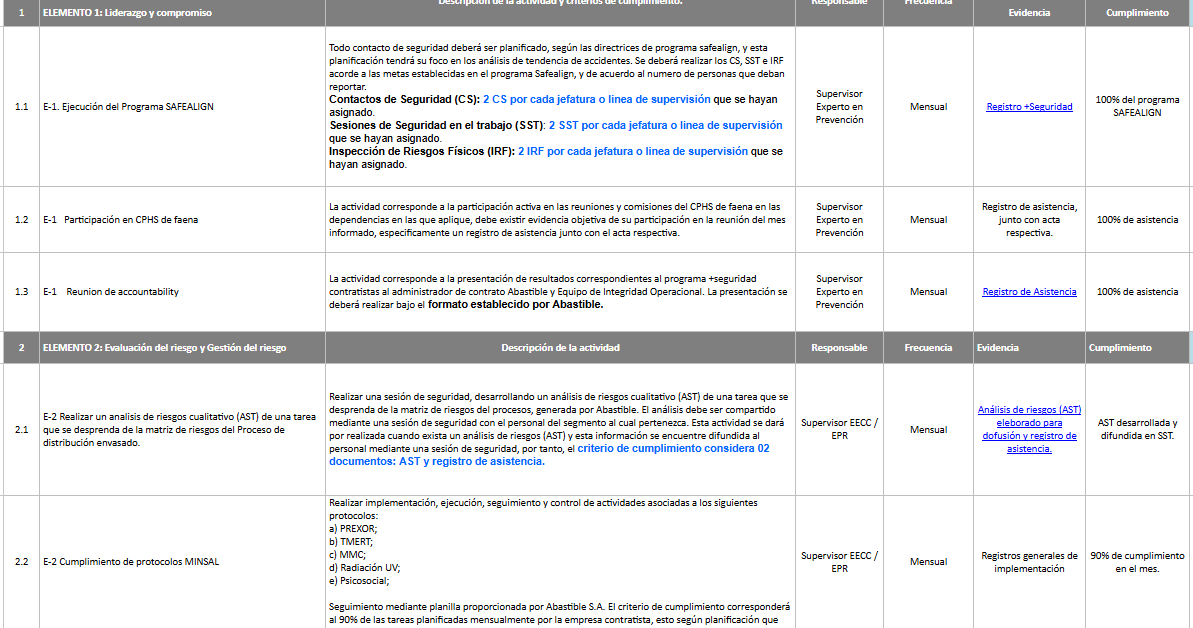
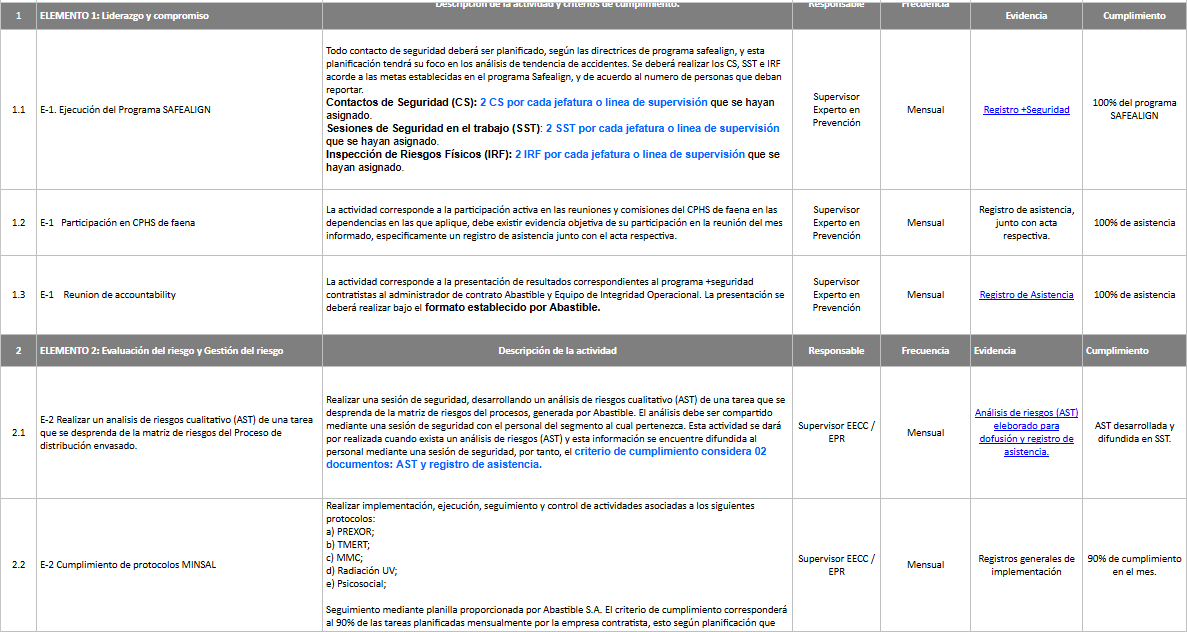
up seeders programa envasado

diff --git a/back/src/data/envasado.js b/back/src/data/envasado.js
@@ -1,0 +1,165 @@
+const envasadoProgramData = [
+    {
+        "numero": "1",
+        "nombre": "Liderazgo y compromiso",
+        "actividades": [
+            {
+                "codigo": "1.1",
+                "descripcion": "Todo contacto de seguridad deberá ser planificado, según las directrices de programa safealign, y esta planificación tendrá su foco en los análisis de tendencia de accidentes. Se deberá realizar los CS, SST e IRF acorde a las metas establecidas en el programa Safealign, y de acuerdo al número de personas que deban reportar.\\nContactos de Seguridad (CS): 2 CS por cada jefatura o línea de supervisión que se hayan asignado.\\nSesiones de Seguridad en el trabajo (SST): 2 SST por cada jefatura o línea de supervisión que se hayan asignado.\\nInspección de Riesgos Físicos (IRF): 2 IRF por cada jefatura o línea de supervisión que se hayan asignado.",
+                "frecuencia": "mensual",
+                "criterios": "Registro +Seguridad",
+                "requiere_evidencia": 1
+            },
+            {
+                "codigo": "1.2",
+                "descripcion": "La actividad corresponde a la participación activa en las reuniones y comisiones del CPHS de faena en las dependencias en las que aplique, debe existir evidencia objetiva de su participación en la reunión del mes informado, específicamente un registro de asistencia junto con el acta respectiva.",
+                "frecuencia": "mensual",
+                "criterios": "Registro de asistencia, junto con acta respectiva.",
+                "requiere_evidencia": 1
+            },
+            {
+                "codigo": "1.3",
+                "descripcion": "La actividad corresponde a la presentación de resultados correspondientes al programa +seguridad contratistas al administrador de contrato Abastible y Equipo de Integridad Operacional. La presentación se deberá realizar bajo el formato establecido por Abastible.",
+                "frecuencia": "mensual",
+                "criterios": "Registro de Asistencia",
+                "requiere_evidencia": 1
+            }
+        ]
+    },
+    {
+        "numero": "2",
+        "nombre": "Evaluación del riesgo y Gestión del riesgo",
+        "actividades": [
+            {
+                "codigo": "2.1",
+                "descripcion": "Realizar una sesión de seguridad, desarrollando un análisis de riesgos cualitativo (AST) de una tarea que se desprenda de la matriz de riesgos del proceso de distribución envasado, generada por Abastible. El análisis debe ser compartido mediante una sesión de seguridad con el personal del segmento al cual pertenezca. Esta actividad se dará por realizada cuando exista un análisis de riesgos (AST) y esta información se encuentre difundida al personal mediante una sesión de seguridad, por tanto, el criterio de cumplimiento considera 02 documentos: AST y registro de asistencia.",
+                "frecuencia": "mensual",
+                "criterios": "Análisis de riesgos (AST) elaborado para difusión y registro de asistencia.",
+                "requiere_evidencia": 1
+            },
+            {
+                "codigo": "2.2",
+                "descripcion": "Realizar implementación, ejecución, seguimiento y control de actividades asociadas a los siguientes protocolos:\\na) PREXOR;\\nb) TMERT;\\nc) MMC;\\nd) Radiación UV;\\ne) Psicosocial;\\nSeguimiento mediante planilla proporcionada por Abastible S.A. El criterio de cumplimiento corresponderá al 90% de las tareas planificadas mensualmente por la empresa contratista, esto según planificación que debe ser abordada por cada empresa.",
+                "frecuencia": "mensual",
+                "criterios": "Registros generales de implementación",
+                "requiere_evidencia": 1
+            }
+        ]
+    },
+    {
+        "numero": "3",
+        "nombre": "Competencias y capacitación del personal",
+        "actividades": [
+            {
+                "codigo": "3.1",
+                "descripcion": "Consiste en realizar la inducción de todo trabajador nuevo, reasignación de cargo, o que haya estado un periodo extenso sin realizar las labores para las cuales fue contratado (ej. Licencia médica), o que haya reingresado posterior a un accidente. Para dar cumplimiento a este ítem se requiere un registro individualizado de capacitación con datos mínimos tales como: nombre, rut, cargo que desarrollará, empresa por la cual realiza la inducción, fecha, hora inicio, hora de término. ODI firmada por trabajador.",
+                "frecuencia": "mensual",
+                "criterios": "Registro individualizado de capacitación",
+                "requiere_evidencia": 1
+            },
+            {
+                "codigo": "3.2",
+                "descripcion": "Ejecución de las capacitaciones de acuerdo a plan anual de capacitación que se haya asignado al segmento de distribución envasado, ya sea en plataforma ACHS, en AULA (plataforma disponibilizada por Abastible), o las proporcionadas en forma directa por la jefatura o línea de supervisión. Para dar cumplimiento a este ítem se debe mantener disponible el registro de asistencia, diploma de la plataforma a la cual se acceda.",
+                "frecuencia": "mensual",
+                "criterios": "Registro de Asistencia",
+                "requiere_evidencia": 1
+            }
+        ]
+    },
+    {
+        "numero": "6 y 7",
+        "nombre": "Operaciones e Integridad Mecánica",
+        "actividades": [
+            {
+                "codigo": "4.1",
+                "descripcion": "Aplicación de la lista de verificación de cumplimiento de MMC y EPP. Consiste en aplicar checklist para verificar el correcto MMC de acuerdo a los procedimientos establecidos por Abastible y el de cada empresa colaboradora.",
+                "frecuencia": "mensual",
+                "criterios": "Check list OBS/INSP MMC",
+                "requiere_evidencia": 1
+            },
+            {
+                "codigo": "4.2",
+                "descripcion": "Verificación de correcta aplicación de Check List salida camión envasado. Verificación de la existencia del check list de Distribución envasado, previo a la salida, es 01 check por cada camión que sale a ruta. Toda observación que se desprenda del check debe estar contenida en una tarjeta amarilla. Realizar revisión aleatoria de los checklist de salida de camión. Subir como evidencia en isotools. Subir hallazgo a isotools, con responsable y fecha.",
+                "frecuencia": "mensual",
+                "criterios": "Check list de salida camión envasado",
+                "requiere_evidencia": 1
+            },
+            {
+                "codigo": "4.3",
+                "descripcion": "Gestión de cierre de tarjetas. Gestionar cierre de tarjetas levantadas a la EECC y por la empresa contratista. Revisión Mensual de cierre de tarjetas.",
+                "frecuencia": "mensual",
+                "criterios": "Check list salida camión granel",
+                "requiere_evidencia": 1
+            }
+        ]
+    },
+    {
+        "numero": "9",
+        "nombre": "SERVICIOS DE TERCEROS",
+        "actividades": [
+            {
+                "codigo": "5.1",
+                "descripcion": "Garantizar el 100% de Acreditación para EECC y trabajadores que prestan servicio activo en Abastible. Consiste en evidenciar estatus de acreditación desde plataforma de control, los casos que no cumplan el 100% deben estar gestionadas y en seguimiento para dar conformidad a esta actividad.",
+                "frecuencia": "mensual",
+                "criterios": "Plataforma OVAL",
+                "requiere_evidencia": 1
+            },
+            {
+                "codigo": "5.2",
+                "descripcion": "Garantizar el 100% en Verificación laboral [pago de obligaciones laborales y previsionales]. Consiste en evidenciar el estatus de cumplimiento desde la plataforma de control, los casos que no cumplan con el 100% deberán gestionar las contingencias para dar conformidad a esta actividad.",
+                "frecuencia": "mensual",
+                "criterios": "Plataforma OVAL",
+                "requiere_evidencia": 1
+            },
+            {
+                "codigo": "5.3",
+                "descripcion": "Realizar reunión de accountability mensual, presentando Resumen estadístico y evidencia de cada actividad ejecutada. Consiste en sesionar mensualmente con el administrador de contrato, para evaluación periódica de desempeño.",
+                "frecuencia": "mensual",
+                "criterios": "Registro de Asistencia",
+                "requiere_evidencia": 1
+            }
+        ]
+    },
+    {
+        "numero": "10",
+        "nombre": "Investigación de accidentes",
+        "actividades": [
+            {
+                "codigo": "6.1",
+                "descripcion": "E-10 Envío de informe de investigación en plazo. Consiste en el envío del informe de investigación de acuerdo a la metodología y los plazos definidos por Abastible. En caso de que Abastible lo solicite, el contratista debe participar en reunión para revisión de la investigación. (reporte preliminar, simplificado, ICAM)",
+                "frecuencia": "cuando_aplique",
+                "criterios": "Correo envío de investigación",
+                "requiere_evidencia": 1
+            },
+            {
+                "codigo": "6.2",
+                "descripcion": "E-10 Verificación del cierre de las acciones correctivas derivadas de informes de investigación de accidentes. Verificar el estado de cierre de las acciones correctivas derivadas de informes de investigación de accidentes y hacer seguimiento al cierre. Esta información se lleva mediante un indicador llamado \"IMC\" índice de medidas correctivas, indicador que debe estar siempre al 100%.",
+                "frecuencia": "mensual",
+                "criterios": "Registro de acciones correctivas, según lo indicado en el plan de acción.",
+                "requiere_evidencia": 1
+            }
+        ]
+    },
+    {
+        "numero": "12",
+        "nombre": "Evaluación y Mejora de la Integridad de las Operaciones",
+        "actividades": [
+            {
+                "codigo": "7.1",
+                "descripcion": "E-12 Nro. De Incidentes no registrables: Nro de Incidentes no registrables ocurridos en el mes. (Seguridad de personas que no afecte indicadores). En esta actividad se debe hacer entrega del RESUMEN ESTADÍSTICO para dar un CUMPLE a la actividad.",
+                "frecuencia": "mensual",
+                "criterios": "Resumen Estadístico",
+                "requiere_evidencia": 1
+            },
+            {
+                "codigo": "7.2",
+                "descripcion": "E-12 Nro. De Incidentes registrables: Nro de Incidentes registrables ocurridos en el mes (asociados a seguridad de personas, indicadores a los cuales se relaciona IFF - IFT - IGT). En esta actividad se debe hacer entrega del RESUMEN ESTADÍSTICO para dar un CUMPLE a la actividad.",
+                "frecuencia": "mensual",
+                "criterios": "Resumen Estadístico",
+                "requiere_evidencia": 1
+            }
+        ]
+    }
+];
+
+module.exports = envasadoProgramData;

diff --git a/back/src/seed.js b/back/src/seed.js
@@ -117,6 +117,36 @@ async function seed() {
             }
         }
 
+        console.log('📦 Creando elementos y actividades de OIM Distribución Envasado...');
+        const envasadoData = require('./data/envasado');
+
+        let ordElmEnv = 1;
+        for (const data of envasadoData) {
+            const elemento = await Elemento.create({
+                programa_id: programas[0].id,
+                numero: data.numero,
+                nombre: data.nombre,
+                descripcion: `Elemento ${data.numero}: ${data.nombre}`,
+                orden: ordElmEnv++
+            });
+
+            let ordAct = 1;
+            for (const act of data.actividades) {
+                const actividad = await Actividad.create({
+                    elemento_id: elemento.id,
+                    codigo: act.codigo,
+                    actividad: `${act.codigo} - ${data.nombre}`,
+                    descripcion: act.descripcion,
+                    criterios: act.criterios,
+                    frecuencia: act.frecuencia,
+                    requiere_evidencia: act.requiere_evidencia,
+                    orden: ordAct++,
+                    activo: 1
+                });
+                allActividades.push(actividad);
+            }
+        }
+
         console.log('📦 Creando privilegios...');
         await Privilegio.bulkCreate([
             { role_id: roles[0].id, ref_modulo: '*', read: 1, write: 1, excec: 1 },
